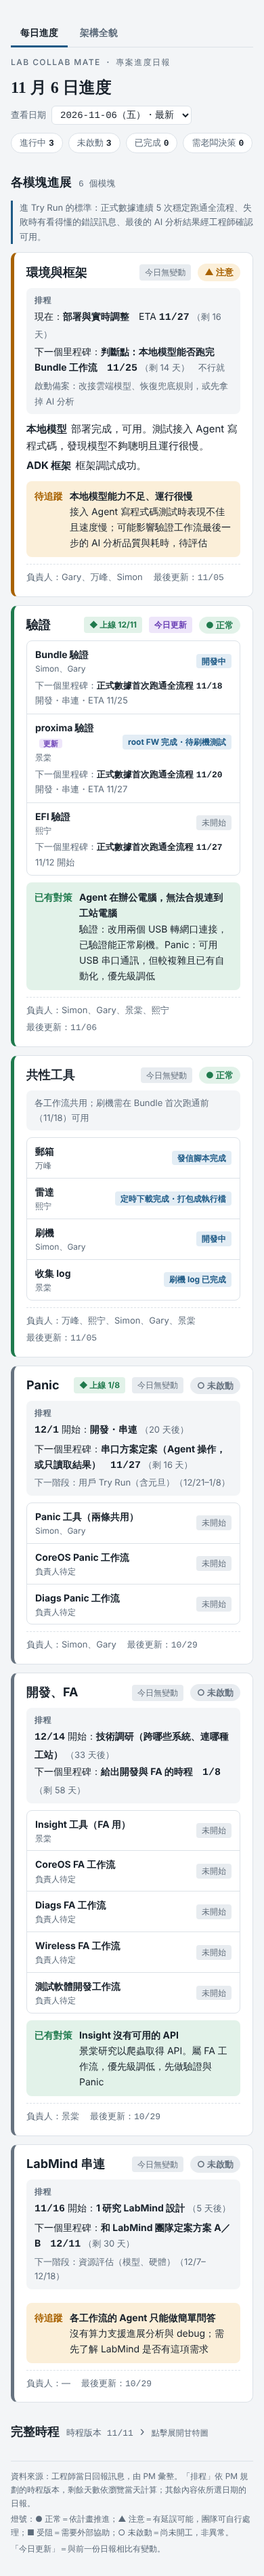
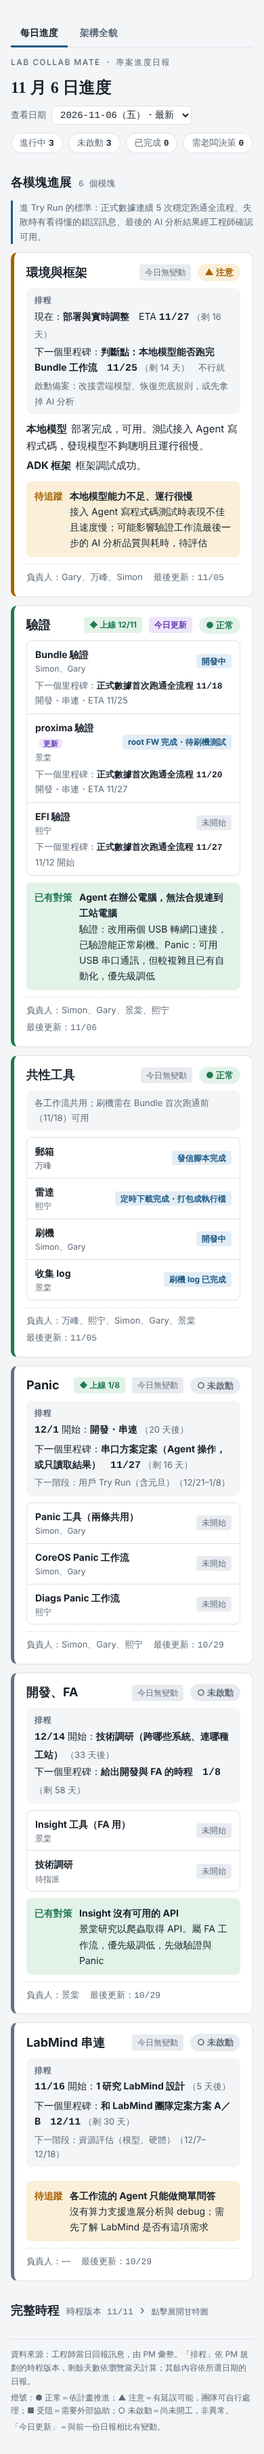
[2026-11-11_dashboard-schedule-and-arch-tab] Panic 指定負責人；開發與 FA 改為 Insight 工具＋技術調研
Claude-Session: https://claude.ai/code/session_01HY2PekBDQgaxvznQLxGhAu

diff --git a/public/index.html b/public/index.html
@@ -414,10 +414,9 @@ const MODULES = [
   {name:"驗證", rows:[{ws:4, item:"Bundle 驗證", track:"Bundle 驗證"}, {ws:4, item:"proxima 驗證", track:"proxima 驗證"}, {ws:4, item:"EFI 驗證", track:"EFI 驗證"}]},
   {name:"共性工具", note:"各工作流共用；刷機需在 Bundle 首次跑通前（11/18）可用", rows:[{ws:3, item:"郵箱"}, {ws:3, item:"雷達"}, {ws:3, item:"刷機"}, {ws:3, item:"收集 log"}]},
   {name:"Panic", track:"Panic", rows:[{ws:3, item:"Panic", label:"Panic 工具（兩條共用）"},
-    {item:"CoreOS Panic 工作流", owner:"負責人待定"}, {item:"Diags Panic 工作流", owner:"負責人待定"}]},
+    {item:"CoreOS Panic 工作流", owner:"Simon、Gary"}, {item:"Diags Panic 工作流", owner:"熙宁"}]},
   {name:"開發、FA", track:"開發、FA", rows:[{ws:3, item:"Insight", label:"Insight 工具（FA 用）"},
-    {item:"CoreOS FA 工作流", owner:"負責人待定"}, {item:"Diags FA 工作流", owner:"負責人待定"},
-    {item:"Wireless FA 工作流", owner:"負責人待定"}, {item:"測試軟體開發工作流", owner:"負責人待定"}]},
+    {item:"技術調研", owner:"待指派"}]},
   {name:"LabMind 串連", track:"LabMind 串連", src:[{ws:7}]}
 ];
 const HOME = {1:"環境與框架", 2:"環境與框架", 3:"共性工具", 4:"驗證", 5:"驗證", 6:"驗證", 7:"LabMind 串連"};
@@ -432,7 +431,7 @@ function modOf(r, M){
   const issues = r.projects.flatMap(p => (p.issues||[]).filter(x => (x.mod || HOME[p.no]) === M.name));
   const sts = [...lines, ...rows].map(x => x.status);
   const status = sts.every(s => s === "done") ? "done" : sts.reduce((a,b) => RANK[b] > RANK[a] ? b : a, "idle");
-  const owners = [...new Set([...lines.flatMap(l => l.owners.split("、")), ...rows.flatMap(x => x.owner.split("、"))].filter(o => o && o !== "—" && o !== "負責人待定"))].join("、");
+  const owners = [...new Set([...lines.flatMap(l => l.owners.split("、")), ...rows.flatMap(x => x.owner.split("、"))].filter(o => o && o !== "—" && o !== "待指派"))].join("、");
   const sig = JSON.stringify([lines.map(l => [l.text, l.status]), rows.map(x => [x.lab, x.k]), issues.map(x => x.title + x.ask)]);
   return {lines, rows, issues, status, owners, sig};
 }

diff --git a/work/2026-11-11_dashboard-schedule-and-arch-tab/STATUS.md b/work/2026-11-11_dashboard-schedule-and-arch-tab/STATUS.md
@@ -34,7 +34,7 @@
 | 11-11 | 進 Try Run 的標準：真機連續 5 次穩定跑通、失敗時有看得懂的錯誤訊息、AI 分析結果經工程師確認可用 |
 | 11-11 | 里程碑用詞：①「正式數據首次跑通全流程」②「正式數據連續 5 次穩定跑通全流程」；Try Run 標準同步改用「正式數據」 |
 | 11-11 | 每日進度去除重複：改成一個模塊一張卡（環境與框架、驗證、共性工具、Panic、開發與 FA、LabMind 串連），卡內合併排程（ETA、下一個里程碑）與當日進展；拿掉獨立的時程摘要卡、未啟動／已完成清單、工作流落地範圍 |
-| 11-11 | Panic 模塊補上 CoreOS Panic、Diags Panic 兩條工作流；開發、FA 模塊補上 CoreOS FA、Diags FA、Wireless FA、測試軟體開發四條工作流（負責人待定）；兩模塊的排程改放在模塊層級，不在每列重複 |
+| 11-11 | Panic 模塊：Panic 工具（Simon、Gary，兩條共用）、CoreOS Panic 工作流（Simon、Gary）、Diags Panic 工作流（熙宁）；開發、FA 模塊：Insight 工具（景棠）、技術調研（待指派）。排程放在模塊層級，不在每列重複 |
 | 11-11 | 甘特圖改為可收合，預設收合；展開狀態記在各自瀏覽器 |
 | 11-11 | 只排工作日；原版 11/28、12/12、12/26 落在週末，已修正 |
 
@@ -80,6 +80,9 @@
 7. 架構分頁方案 B 的標題仍是「待確認池」，架構頁已決議改名「承接池」，要不要一起改？
 
 ## 過程紀錄（由新到舊）
+
+### 2026-11-11（第六段）
+- 使用者指定 Panic 各列負責人，並把開發、FA 改成 Insight 工具＋技術調研（待指派），拿掉四條 FA／開發工作流列。
 
 ### 2026-11-11（第五段）
 - 使用者指出 Panic、開發與 FA 少了工作流。依原「工作流落地範圍」補上 6 條工作流列（尚無日報資料，顯示未開始、負責人待定），與工具列放在同一張卡。
